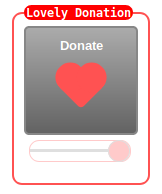
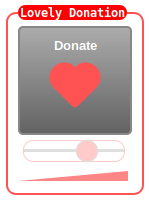
interface update

diff --git a/Heart.html b/Heart.html
@@ -24,6 +24,9 @@
     </button>
     <br>
     <input id="load-cpu" type="range" min="1" max="10" value="7" class="slider" id="heart">
+    <div class="scale-miner">
+
+    </div>
   </fieldset>
   </form>
   <!-- copy class end-->

diff --git a/Heart.css b/Heart.css
@@ -140,3 +140,10 @@ legend {
   cursor: pointer;
   border-radius: 50%;
 }
+.scale-miner {
+	border-color: transparent #ff8686;
+	border-style: solid;
+	border-width: 10px 110px 0px 0px;
+	height: 0px;
+	width: 0px;
+}
